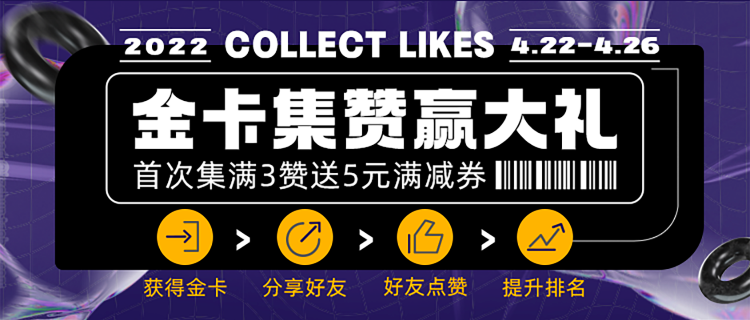
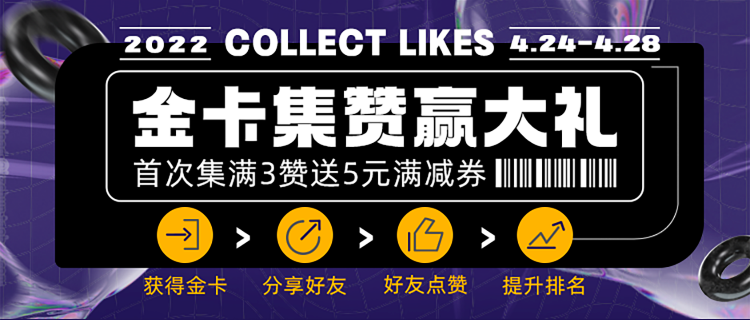
集赞头图更换,金卡背景大小调整

diff --git a/src/pages/act/saveThum/saveThum_list.vue b/src/pages/act/saveThum/saveThum_list.vue
@@ -10,7 +10,7 @@
 				</image>
 			</view>
 		</view>
-		<view style="padding-top:70rpx">
+		<view style="padding-top:86rpx">
 			<statusbar />
 		</view>
 		<image class='topImge' src="../../../static/act/saveThum/back.png" mode="widthFix"></image>
@@ -55,15 +55,14 @@
 			</image>
 			<view class="title">分享好友</view>
 			<view class="goldBack">
-				<image class="goldImage" src='../../../static/goods/drawcard/card_gold.png' mode="widthFix"></image>
 				<image src="../../../static/goods/drawcard/icon_rc.png" class="rcIcon" mode="widthFix"
-					v-show="shareItem.rc"></image>
+					></image>
 				<image :src="decodeURIComponent(shareItem.pic)" class="img" mode="widthFix"></image>
 				<!-- @click='priveImg(0,[decodeURIComponent(shareItem.pic)])' -->
 			</view>
 			<view class="tips">{{shareItem.noName}}</view>
 			<view class="change uni-flex" @click="change">
-				<text>换一张</text>
+				<text>换一张</text>	
 				<image src="../../../static/act/saveThum/change.png" mode=""></image>
 			</view>
 			<view class="shareButton" @click="shareWx">
@@ -455,7 +454,8 @@
 			display: flex;
 			margin-top: 20rpx;
 			position: relative;
-
+			background-image: url(../../../static/goods/drawcard/card_gold.png);
+			background-size: 100% 100%;
 			.goldImage {
 				width: 340rpx;
 				position: absolute;

diff --git a/src/pages/act/goldRank/goldRank_rankList.vue b/src/pages/act/goldRank/goldRank_rankList.vue
@@ -748,13 +748,13 @@
 
 		@keyframes rowup {
 			0% {
-				-webkit-transform: translate3d(0, 0, 0);
-				transform: translate3d(0, 0, 0);
+				-webkit-transform: translateX(0);
+				transform: translateX(0);
 			}
 
 			100% {
-				-webkit-transform: translate3d(-3560rpx, 0, 0);
-				transform: translate3d(-3560rpx, 0, 0);
+				-webkit-transform: translateX(-3560rpx);
+				transform: translateX(-3560rpx);
 			}
 		}
 
